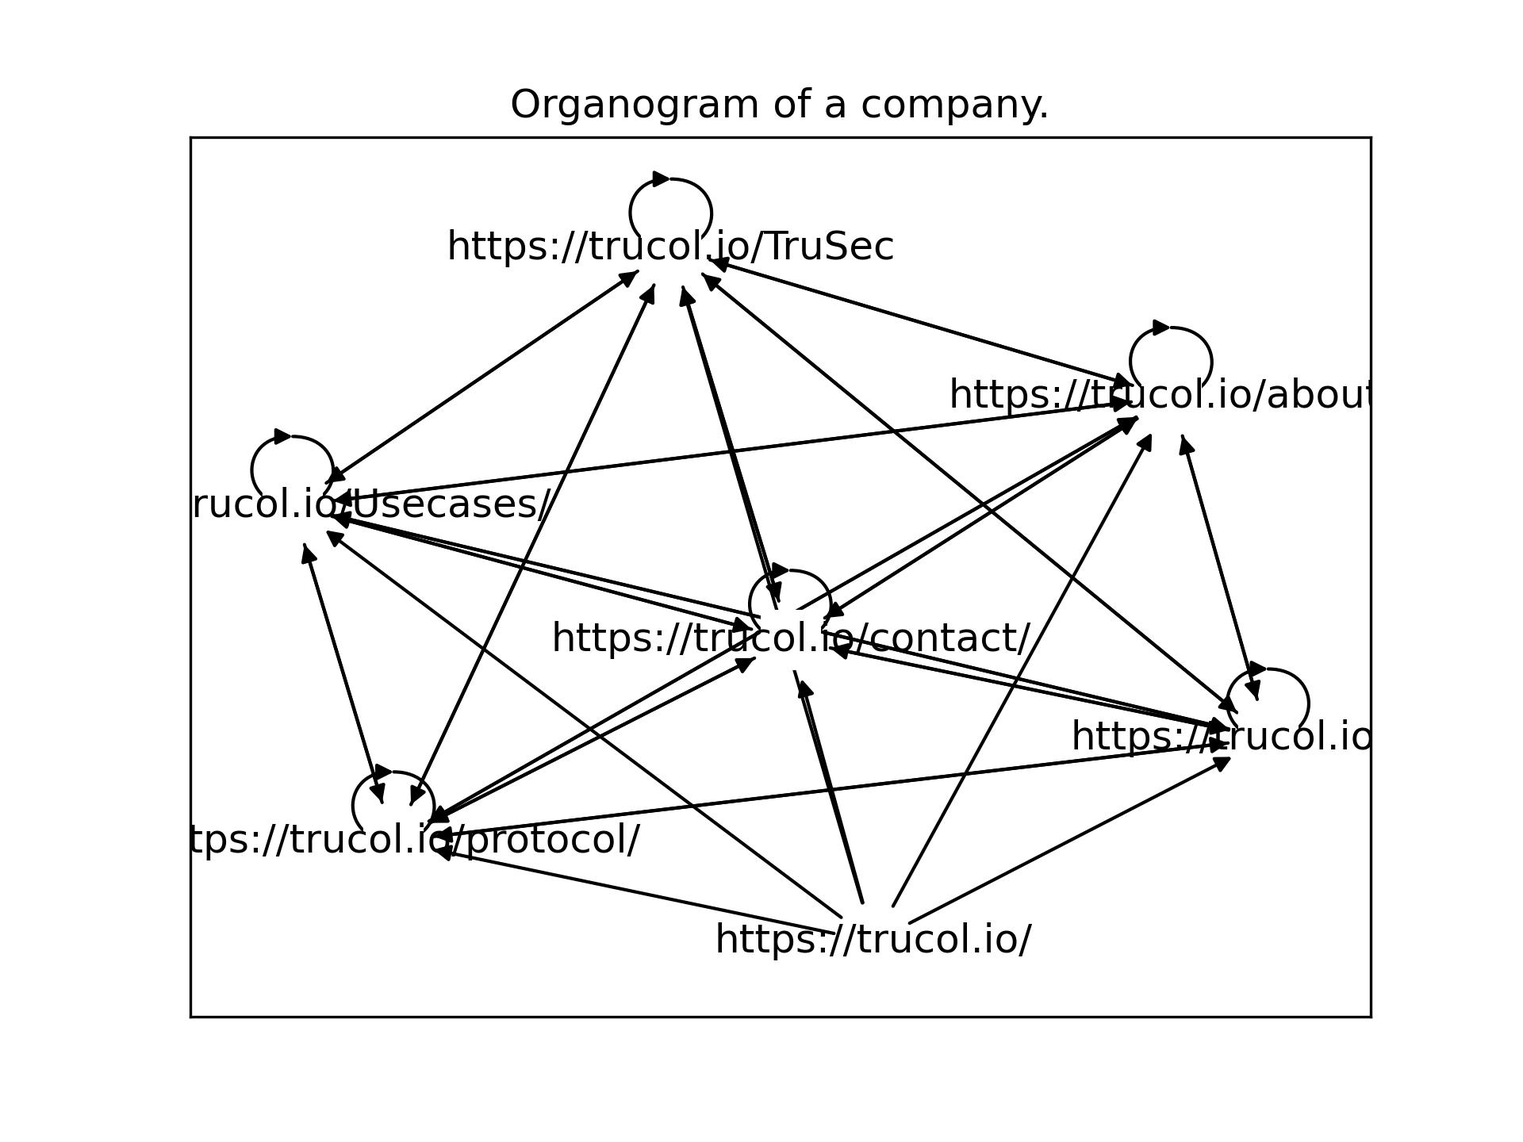
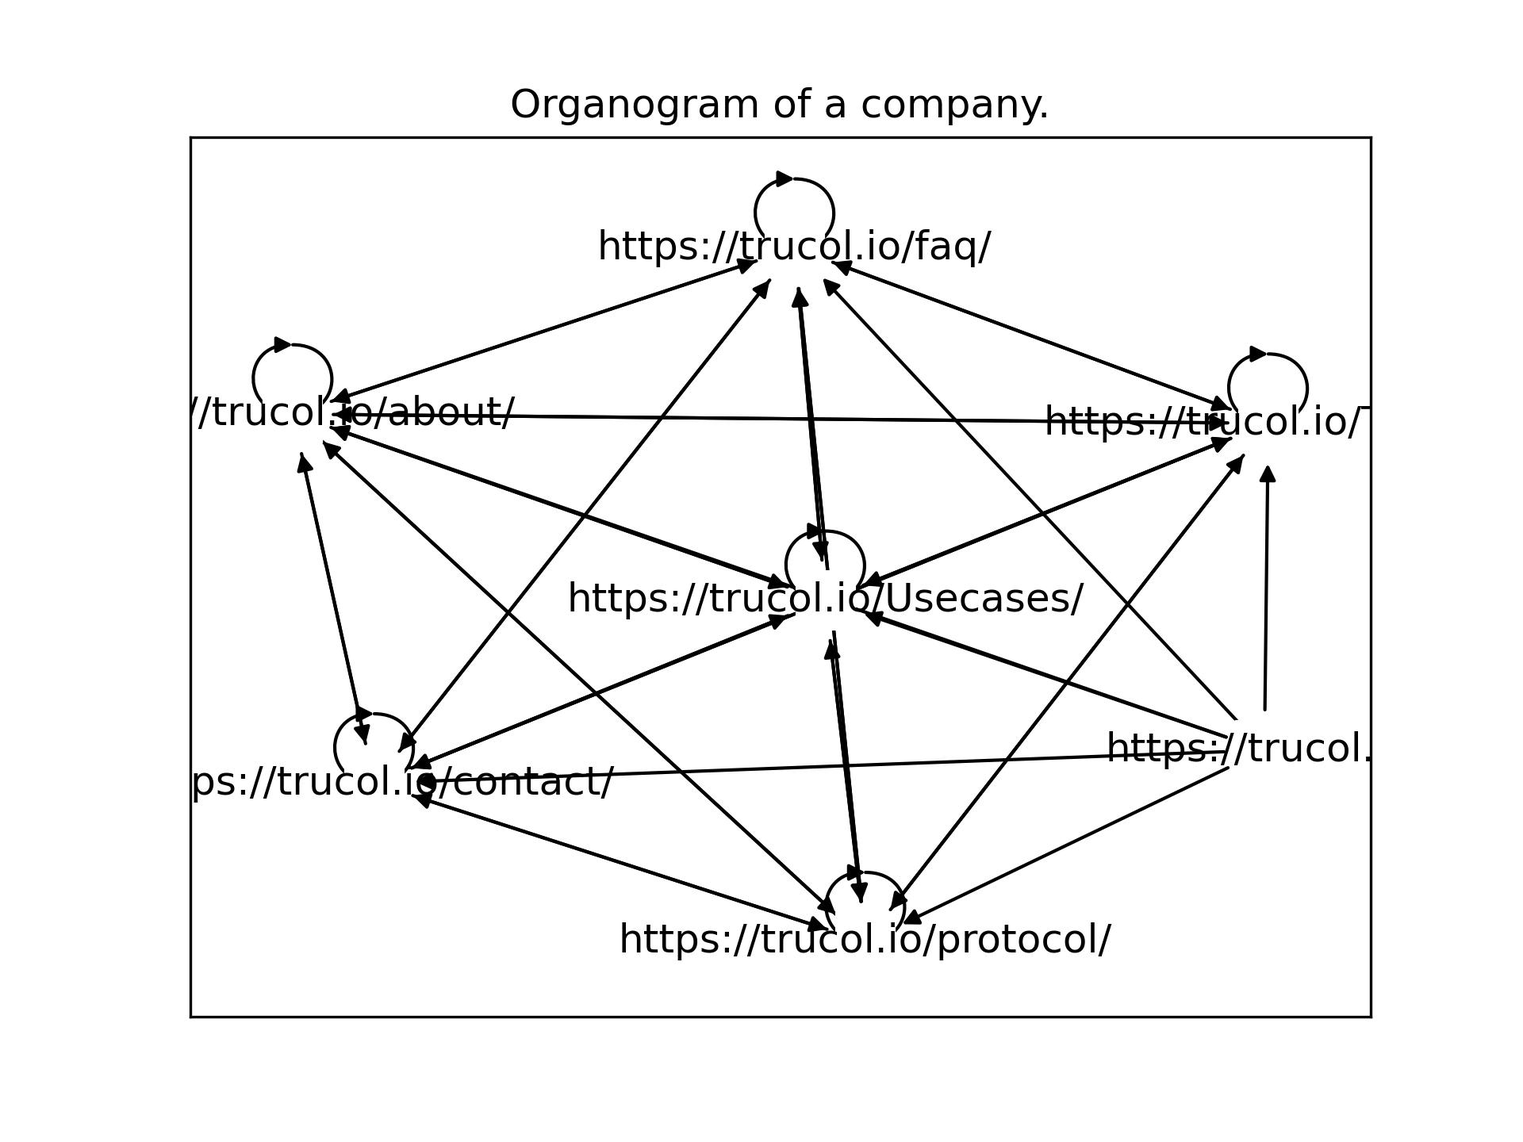
Corrected nested order of page overview.

diff --git a/book/https:__trucol.io_.html b/book/https:__trucol.io_.html
@@ -65,7 +65,7 @@
         </script>
 
         <div id="sidebar" class="sidebar">
-            <ul class="chapter"><li><a href="./https:__trucol.io_.html" class="active"><strong>1.</strong> https:_trucol.io</a></li><li><ul class="section"><li><a href="./https:__trucol.io_protocol_.html"><strong>1.1.</strong> https:_trucol.io_protocol</a></li><li><ul class="section"><li><a href="./https:__trucol.io_Usecases_.html"><strong>1.1.1.</strong> https:_trucol.io_Usecases</a></li><li><ul class="section"><li><a href="./https:__trucol.io_faq_.html"><strong>1.1.1.1.</strong> https:_trucol.io_faq</a></li><li><ul class="section"><li><a href="./https:__trucol.io_TruSec.html"><strong>1.1.1.1.1.</strong> https:__trucol.io_TruSec</a></li><li><ul class="section"><li><a href="./https:__trucol.io_about_.html"><strong>1.1.1.1.1.1.</strong> https:_trucol.io_about</a></li><li><ul class="section"><li><a href="./https:__trucol.io_contact_.html"><strong>1.1.1.1.1.1.1.</strong> https:_trucol.io_contact</a></li></ul></li></ul></li></ul></li></ul></li></ul></li></ul></li></ul>
+            <ul class="chapter"><li><a href="./https:__trucol.io_.html" class="active"><strong>1.</strong> https:_trucol.io</a></li><li><ul class="section"><li><a href="./https:__trucol.io_protocol_.html"><strong>1.1.</strong> https:_trucol.io_protocol</a></li><li><a href="./https:__trucol.io_Usecases_.html"><strong>1.2.</strong> https:_trucol.io_Usecases</a></li><li><a href="./https:__trucol.io_faq_.html"><strong>1.3.</strong> https:_trucol.io_faq</a></li><li><a href="./https:__trucol.io_TruSec.html"><strong>1.4.</strong> https:__trucol.io_TruSec</a></li><li><a href="./https:__trucol.io_about_.html"><strong>1.5.</strong> https:_trucol.io_about</a></li><li><a href="./https:__trucol.io_contact_.html"><strong>1.6.</strong> https:_trucol.io_contact</a></li></ul></li></ul>
         </div>
 
         <div id="page-wrapper" class="page-wrapper">

diff --git a/book/https:__trucol.io_TruSec.html b/book/https:__trucol.io_TruSec.html
@@ -65,7 +65,7 @@
         </script>
 
         <div id="sidebar" class="sidebar">
-            <ul class="chapter"><li><a href="./https:__trucol.io_.html"><strong>1.</strong> https:_trucol.io</a></li><li><ul class="section"><li><a href="./https:__trucol.io_protocol_.html"><strong>1.1.</strong> https:_trucol.io_protocol</a></li><li><ul class="section"><li><a href="./https:__trucol.io_Usecases_.html"><strong>1.1.1.</strong> https:_trucol.io_Usecases</a></li><li><ul class="section"><li><a href="./https:__trucol.io_faq_.html"><strong>1.1.1.1.</strong> https:_trucol.io_faq</a></li><li><ul class="section"><li><a href="./https:__trucol.io_TruSec.html" class="active"><strong>1.1.1.1.1.</strong> https:__trucol.io_TruSec</a></li><li><ul class="section"><li><a href="./https:__trucol.io_about_.html"><strong>1.1.1.1.1.1.</strong> https:_trucol.io_about</a></li><li><ul class="section"><li><a href="./https:__trucol.io_contact_.html"><strong>1.1.1.1.1.1.1.</strong> https:_trucol.io_contact</a></li></ul></li></ul></li></ul></li></ul></li></ul></li></ul></li></ul>
+            <ul class="chapter"><li><a href="./https:__trucol.io_.html"><strong>1.</strong> https:_trucol.io</a></li><li><ul class="section"><li><a href="./https:__trucol.io_protocol_.html"><strong>1.1.</strong> https:_trucol.io_protocol</a></li><li><a href="./https:__trucol.io_Usecases_.html"><strong>1.2.</strong> https:_trucol.io_Usecases</a></li><li><a href="./https:__trucol.io_faq_.html"><strong>1.3.</strong> https:_trucol.io_faq</a></li><li><a href="./https:__trucol.io_TruSec.html" class="active"><strong>1.4.</strong> https:__trucol.io_TruSec</a></li><li><a href="./https:__trucol.io_about_.html"><strong>1.5.</strong> https:_trucol.io_about</a></li><li><a href="./https:__trucol.io_contact_.html"><strong>1.6.</strong> https:_trucol.io_contact</a></li></ul></li></ul>
         </div>
 
         <div id="page-wrapper" class="page-wrapper">

diff --git a/book/https:__trucol.io_Usecases_.html b/book/https:__trucol.io_Usecases_.html
@@ -65,7 +65,7 @@
         </script>
 
         <div id="sidebar" class="sidebar">
-            <ul class="chapter"><li><a href="./https:__trucol.io_.html"><strong>1.</strong> https:_trucol.io</a></li><li><ul class="section"><li><a href="./https:__trucol.io_protocol_.html"><strong>1.1.</strong> https:_trucol.io_protocol</a></li><li><ul class="section"><li><a href="./https:__trucol.io_Usecases_.html" class="active"><strong>1.1.1.</strong> https:_trucol.io_Usecases</a></li><li><ul class="section"><li><a href="./https:__trucol.io_faq_.html"><strong>1.1.1.1.</strong> https:_trucol.io_faq</a></li><li><ul class="section"><li><a href="./https:__trucol.io_TruSec.html"><strong>1.1.1.1.1.</strong> https:__trucol.io_TruSec</a></li><li><ul class="section"><li><a href="./https:__trucol.io_about_.html"><strong>1.1.1.1.1.1.</strong> https:_trucol.io_about</a></li><li><ul class="section"><li><a href="./https:__trucol.io_contact_.html"><strong>1.1.1.1.1.1.1.</strong> https:_trucol.io_contact</a></li></ul></li></ul></li></ul></li></ul></li></ul></li></ul></li></ul>
+            <ul class="chapter"><li><a href="./https:__trucol.io_.html"><strong>1.</strong> https:_trucol.io</a></li><li><ul class="section"><li><a href="./https:__trucol.io_protocol_.html"><strong>1.1.</strong> https:_trucol.io_protocol</a></li><li><a href="./https:__trucol.io_Usecases_.html" class="active"><strong>1.2.</strong> https:_trucol.io_Usecases</a></li><li><a href="./https:__trucol.io_faq_.html"><strong>1.3.</strong> https:_trucol.io_faq</a></li><li><a href="./https:__trucol.io_TruSec.html"><strong>1.4.</strong> https:__trucol.io_TruSec</a></li><li><a href="./https:__trucol.io_about_.html"><strong>1.5.</strong> https:_trucol.io_about</a></li><li><a href="./https:__trucol.io_contact_.html"><strong>1.6.</strong> https:_trucol.io_contact</a></li></ul></li></ul>
         </div>
 
         <div id="page-wrapper" class="page-wrapper">

diff --git a/book/https:__trucol.io_about_.html b/book/https:__trucol.io_about_.html
@@ -65,7 +65,7 @@
         </script>
 
         <div id="sidebar" class="sidebar">
-            <ul class="chapter"><li><a href="./https:__trucol.io_.html"><strong>1.</strong> https:_trucol.io</a></li><li><ul class="section"><li><a href="./https:__trucol.io_protocol_.html"><strong>1.1.</strong> https:_trucol.io_protocol</a></li><li><ul class="section"><li><a href="./https:__trucol.io_Usecases_.html"><strong>1.1.1.</strong> https:_trucol.io_Usecases</a></li><li><ul class="section"><li><a href="./https:__trucol.io_faq_.html"><strong>1.1.1.1.</strong> https:_trucol.io_faq</a></li><li><ul class="section"><li><a href="./https:__trucol.io_TruSec.html"><strong>1.1.1.1.1.</strong> https:__trucol.io_TruSec</a></li><li><ul class="section"><li><a href="./https:__trucol.io_about_.html" class="active"><strong>1.1.1.1.1.1.</strong> https:_trucol.io_about</a></li><li><ul class="section"><li><a href="./https:__trucol.io_contact_.html"><strong>1.1.1.1.1.1.1.</strong> https:_trucol.io_contact</a></li></ul></li></ul></li></ul></li></ul></li></ul></li></ul></li></ul>
+            <ul class="chapter"><li><a href="./https:__trucol.io_.html"><strong>1.</strong> https:_trucol.io</a></li><li><ul class="section"><li><a href="./https:__trucol.io_protocol_.html"><strong>1.1.</strong> https:_trucol.io_protocol</a></li><li><a href="./https:__trucol.io_Usecases_.html"><strong>1.2.</strong> https:_trucol.io_Usecases</a></li><li><a href="./https:__trucol.io_faq_.html"><strong>1.3.</strong> https:_trucol.io_faq</a></li><li><a href="./https:__trucol.io_TruSec.html"><strong>1.4.</strong> https:__trucol.io_TruSec</a></li><li><a href="./https:__trucol.io_about_.html" class="active"><strong>1.5.</strong> https:_trucol.io_about</a></li><li><a href="./https:__trucol.io_contact_.html"><strong>1.6.</strong> https:_trucol.io_contact</a></li></ul></li></ul>
         </div>
 
         <div id="page-wrapper" class="page-wrapper">

diff --git a/book/https:__trucol.io_contact_.html b/book/https:__trucol.io_contact_.html
@@ -65,7 +65,7 @@
         </script>
 
         <div id="sidebar" class="sidebar">
-            <ul class="chapter"><li><a href="./https:__trucol.io_.html"><strong>1.</strong> https:_trucol.io</a></li><li><ul class="section"><li><a href="./https:__trucol.io_protocol_.html"><strong>1.1.</strong> https:_trucol.io_protocol</a></li><li><ul class="section"><li><a href="./https:__trucol.io_Usecases_.html"><strong>1.1.1.</strong> https:_trucol.io_Usecases</a></li><li><ul class="section"><li><a href="./https:__trucol.io_faq_.html"><strong>1.1.1.1.</strong> https:_trucol.io_faq</a></li><li><ul class="section"><li><a href="./https:__trucol.io_TruSec.html"><strong>1.1.1.1.1.</strong> https:__trucol.io_TruSec</a></li><li><ul class="section"><li><a href="./https:__trucol.io_about_.html"><strong>1.1.1.1.1.1.</strong> https:_trucol.io_about</a></li><li><ul class="section"><li><a href="./https:__trucol.io_contact_.html" class="active"><strong>1.1.1.1.1.1.1.</strong> https:_trucol.io_contact</a></li></ul></li></ul></li></ul></li></ul></li></ul></li></ul></li></ul>
+            <ul class="chapter"><li><a href="./https:__trucol.io_.html"><strong>1.</strong> https:_trucol.io</a></li><li><ul class="section"><li><a href="./https:__trucol.io_protocol_.html"><strong>1.1.</strong> https:_trucol.io_protocol</a></li><li><a href="./https:__trucol.io_Usecases_.html"><strong>1.2.</strong> https:_trucol.io_Usecases</a></li><li><a href="./https:__trucol.io_faq_.html"><strong>1.3.</strong> https:_trucol.io_faq</a></li><li><a href="./https:__trucol.io_TruSec.html"><strong>1.4.</strong> https:__trucol.io_TruSec</a></li><li><a href="./https:__trucol.io_about_.html"><strong>1.5.</strong> https:_trucol.io_about</a></li><li><a href="./https:__trucol.io_contact_.html" class="active"><strong>1.6.</strong> https:_trucol.io_contact</a></li></ul></li></ul>
         </div>
 
         <div id="page-wrapper" class="page-wrapper">

diff --git a/book/https:__trucol.io_faq_.html b/book/https:__trucol.io_faq_.html
@@ -65,7 +65,7 @@
         </script>
 
         <div id="sidebar" class="sidebar">
-            <ul class="chapter"><li><a href="./https:__trucol.io_.html"><strong>1.</strong> https:_trucol.io</a></li><li><ul class="section"><li><a href="./https:__trucol.io_protocol_.html"><strong>1.1.</strong> https:_trucol.io_protocol</a></li><li><ul class="section"><li><a href="./https:__trucol.io_Usecases_.html"><strong>1.1.1.</strong> https:_trucol.io_Usecases</a></li><li><ul class="section"><li><a href="./https:__trucol.io_faq_.html" class="active"><strong>1.1.1.1.</strong> https:_trucol.io_faq</a></li><li><ul class="section"><li><a href="./https:__trucol.io_TruSec.html"><strong>1.1.1.1.1.</strong> https:__trucol.io_TruSec</a></li><li><ul class="section"><li><a href="./https:__trucol.io_about_.html"><strong>1.1.1.1.1.1.</strong> https:_trucol.io_about</a></li><li><ul class="section"><li><a href="./https:__trucol.io_contact_.html"><strong>1.1.1.1.1.1.1.</strong> https:_trucol.io_contact</a></li></ul></li></ul></li></ul></li></ul></li></ul></li></ul></li></ul>
+            <ul class="chapter"><li><a href="./https:__trucol.io_.html"><strong>1.</strong> https:_trucol.io</a></li><li><ul class="section"><li><a href="./https:__trucol.io_protocol_.html"><strong>1.1.</strong> https:_trucol.io_protocol</a></li><li><a href="./https:__trucol.io_Usecases_.html"><strong>1.2.</strong> https:_trucol.io_Usecases</a></li><li><a href="./https:__trucol.io_faq_.html" class="active"><strong>1.3.</strong> https:_trucol.io_faq</a></li><li><a href="./https:__trucol.io_TruSec.html"><strong>1.4.</strong> https:__trucol.io_TruSec</a></li><li><a href="./https:__trucol.io_about_.html"><strong>1.5.</strong> https:_trucol.io_about</a></li><li><a href="./https:__trucol.io_contact_.html"><strong>1.6.</strong> https:_trucol.io_contact</a></li></ul></li></ul>
         </div>
 
         <div id="page-wrapper" class="page-wrapper">

diff --git a/book/https:__trucol.io_protocol_.html b/book/https:__trucol.io_protocol_.html
@@ -65,7 +65,7 @@
         </script>
 
         <div id="sidebar" class="sidebar">
-            <ul class="chapter"><li><a href="./https:__trucol.io_.html"><strong>1.</strong> https:_trucol.io</a></li><li><ul class="section"><li><a href="./https:__trucol.io_protocol_.html" class="active"><strong>1.1.</strong> https:_trucol.io_protocol</a></li><li><ul class="section"><li><a href="./https:__trucol.io_Usecases_.html"><strong>1.1.1.</strong> https:_trucol.io_Usecases</a></li><li><ul class="section"><li><a href="./https:__trucol.io_faq_.html"><strong>1.1.1.1.</strong> https:_trucol.io_faq</a></li><li><ul class="section"><li><a href="./https:__trucol.io_TruSec.html"><strong>1.1.1.1.1.</strong> https:__trucol.io_TruSec</a></li><li><ul class="section"><li><a href="./https:__trucol.io_about_.html"><strong>1.1.1.1.1.1.</strong> https:_trucol.io_about</a></li><li><ul class="section"><li><a href="./https:__trucol.io_contact_.html"><strong>1.1.1.1.1.1.1.</strong> https:_trucol.io_contact</a></li></ul></li></ul></li></ul></li></ul></li></ul></li></ul></li></ul>
+            <ul class="chapter"><li><a href="./https:__trucol.io_.html"><strong>1.</strong> https:_trucol.io</a></li><li><ul class="section"><li><a href="./https:__trucol.io_protocol_.html" class="active"><strong>1.1.</strong> https:_trucol.io_protocol</a></li><li><a href="./https:__trucol.io_Usecases_.html"><strong>1.2.</strong> https:_trucol.io_Usecases</a></li><li><a href="./https:__trucol.io_faq_.html"><strong>1.3.</strong> https:_trucol.io_faq</a></li><li><a href="./https:__trucol.io_TruSec.html"><strong>1.4.</strong> https:__trucol.io_TruSec</a></li><li><a href="./https:__trucol.io_about_.html"><strong>1.5.</strong> https:_trucol.io_about</a></li><li><a href="./https:__trucol.io_contact_.html"><strong>1.6.</strong> https:_trucol.io_contact</a></li></ul></li></ul>
         </div>
 
         <div id="page-wrapper" class="page-wrapper">

diff --git a/book/index.html b/book/index.html
@@ -64,7 +64,7 @@
         </script>
 
         <div id="sidebar" class="sidebar">
-            <ul class="chapter"><li><a href="./https:__trucol.io_.html" class="active"><strong>1.</strong> https:_trucol.io</a></li><li><ul class="section"><li><a href="./https:__trucol.io_protocol_.html"><strong>1.1.</strong> https:_trucol.io_protocol</a></li><li><ul class="section"><li><a href="./https:__trucol.io_Usecases_.html"><strong>1.1.1.</strong> https:_trucol.io_Usecases</a></li><li><ul class="section"><li><a href="./https:__trucol.io_faq_.html"><strong>1.1.1.1.</strong> https:_trucol.io_faq</a></li><li><ul class="section"><li><a href="./https:__trucol.io_TruSec.html"><strong>1.1.1.1.1.</strong> https:__trucol.io_TruSec</a></li><li><ul class="section"><li><a href="./https:__trucol.io_about_.html"><strong>1.1.1.1.1.1.</strong> https:_trucol.io_about</a></li><li><ul class="section"><li><a href="./https:__trucol.io_contact_.html"><strong>1.1.1.1.1.1.1.</strong> https:_trucol.io_contact</a></li></ul></li></ul></li></ul></li></ul></li></ul></li></ul></li></ul>
+            <ul class="chapter"><li><a href="./https:__trucol.io_.html" class="active"><strong>1.</strong> https:_trucol.io</a></li><li><ul class="section"><li><a href="./https:__trucol.io_protocol_.html"><strong>1.1.</strong> https:_trucol.io_protocol</a></li><li><a href="./https:__trucol.io_Usecases_.html"><strong>1.2.</strong> https:_trucol.io_Usecases</a></li><li><a href="./https:__trucol.io_faq_.html"><strong>1.3.</strong> https:_trucol.io_faq</a></li><li><a href="./https:__trucol.io_TruSec.html"><strong>1.4.</strong> https:__trucol.io_TruSec</a></li><li><a href="./https:__trucol.io_about_.html"><strong>1.5.</strong> https:_trucol.io_about</a></li><li><a href="./https:__trucol.io_contact_.html"><strong>1.6.</strong> https:_trucol.io_contact</a></li></ul></li></ul>
         </div>
 
         <div id="page-wrapper" class="page-wrapper">

diff --git a/book/print.html b/book/print.html
@@ -65,7 +65,7 @@
         </script>
 
         <div id="sidebar" class="sidebar">
-            <ul class="chapter"><li><a href="./https:__trucol.io_.html"><strong>1.</strong> https:_trucol.io</a></li><li><ul class="section"><li><a href="./https:__trucol.io_protocol_.html"><strong>1.1.</strong> https:_trucol.io_protocol</a></li><li><ul class="section"><li><a href="./https:__trucol.io_Usecases_.html"><strong>1.1.1.</strong> https:_trucol.io_Usecases</a></li><li><ul class="section"><li><a href="./https:__trucol.io_faq_.html"><strong>1.1.1.1.</strong> https:_trucol.io_faq</a></li><li><ul class="section"><li><a href="./https:__trucol.io_TruSec.html"><strong>1.1.1.1.1.</strong> https:__trucol.io_TruSec</a></li><li><ul class="section"><li><a href="./https:__trucol.io_about_.html"><strong>1.1.1.1.1.1.</strong> https:_trucol.io_about</a></li><li><ul class="section"><li><a href="./https:__trucol.io_contact_.html"><strong>1.1.1.1.1.1.1.</strong> https:_trucol.io_contact</a></li></ul></li></ul></li></ul></li></ul></li></ul></li></ul></li></ul>
+            <ul class="chapter"><li><a href="./https:__trucol.io_.html"><strong>1.</strong> https:_trucol.io</a></li><li><ul class="section"><li><a href="./https:__trucol.io_protocol_.html"><strong>1.1.</strong> https:_trucol.io_protocol</a></li><li><a href="./https:__trucol.io_Usecases_.html"><strong>1.2.</strong> https:_trucol.io_Usecases</a></li><li><a href="./https:__trucol.io_faq_.html"><strong>1.3.</strong> https:_trucol.io_faq</a></li><li><a href="./https:__trucol.io_TruSec.html"><strong>1.4.</strong> https:__trucol.io_TruSec</a></li><li><a href="./https:__trucol.io_about_.html"><strong>1.5.</strong> https:_trucol.io_about</a></li><li><a href="./https:__trucol.io_contact_.html"><strong>1.6.</strong> https:_trucol.io_contact</a></li></ul></li></ul>
         </div>
 
         <div id="page-wrapper" class="page-wrapper">

diff --git a/src/pythontemplate/frontend/visualize_summarised_website.py b/src/pythontemplate/frontend/visualize_summarised_website.py
@@ -1,13 +1,18 @@
 import os
-
+from typing import List
 
 def create_mdbook(graph, root, output_dir):
     if not os.path.exists(output_dir):
         os.makedirs(output_dir)
 
+    tree:List[List] = []
+    
+    tree = create_bft(graph=graph, root_node=list(graph.nodes)[0], tree =tree)
+    
     # Create SUMMARY.md file
     summary_content = ["# Summary\n"]
-    summary_content += generate_summary(graph, root, 0)
+    summary_content += generate_summary(graph,tree, root, 0)
+    
 
     with open(os.path.join(output_dir, "SUMMARY.md"), "w") as f:
         f.writelines(summary_content)
@@ -15,7 +20,39 @@ def create_mdbook(graph, root, output_dir):
     # Create markdown files for each node
     create_markdown_files(graph, root, output_dir)
 
-def generate_summary(graph, node, level, visited=None):
+def create_bft(graph,root_node, tree:List[List]):
+    """Generates a breadth first tree of the graph starting at the root node.
+   then adds all its neighbours, then those neighbours etc untill all nodes are
+   included in a levelled list."""
+    
+    if tree == []:
+      if root_node is None:
+         raise ValueError("Cannot add None as root to tree.")
+      tree=[[root_node]]
+    
+    # Get the last row of the tree.
+    next_level:List=[]
+    for node in tree[-1]:
+    
+        for neighbour in graph.neighbors(node):
+            if not tree_contains_node(tree=tree, sought_node=neighbour):
+                next_level.append(neighbour)
+    if len(next_level) > 0:
+        tree.append(next_level)
+        for node in tree[-1]:
+            tree = create_bft(graph = graph, root_node=root_node, tree=tree)
+    return tree
+
+def tree_contains_node(tree:List[List], sought_node)-> bool:
+    for nodes_of_level in tree:
+      for node in nodes_of_level:
+         if sought_node == node:
+            return True
+    return False
+   
+
+
+def generate_summary(graph, tree, node, level):
     """
     This function generates a summary of a graph structure in Markdown format.
 
@@ -28,46 +65,26 @@ def generate_summary(graph, node, level, visited=None):
     Returns:
         A string containing the Markdown summary for the current node and its descendants.
     """
+    content=""
+    for indentation_level, nodes_of_level in enumerate(tree):
+       if indentation_level<len(tree)-1:
+            for node in nodes_of_level:
+                content += create_summary_content_for_node(level=indentation_level, node=node)
+                if indentation_level <= len(tree):
+                    children=tree[indentation_level+1]
+                    for child in children:
+                        if [node,child] in graph.edges:
+                            # TODO: include edge weight.
+                            content += create_summary_content_for_node(level=indentation_level+1, node=child)
+            
+    return content
 
+def create_summary_content_for_node(*, level:int, node) -> str:
     indent = "    " * level  # Create indentation string based on level
     content = (
         f'{indent}* [{node.replace("/", "_")}](./{node.replace("/", "_")}.md)\n'
     )
-
-    if visited is None:
-        visited = []  # Initialize visited list if not provided
-
-    if node in visited:
-        return ""  # Skip node if already visited
-
-    visited.append(node)  # Add current node to visited list
-
-    for child in graph.successors(node):
-        """
-        Iterate through the successor nodes (children) of the current node.
-        """
-        content += "".join(generate_summary(graph, child, level + 1, visited))
-
     return content
-
-
-# def create_markdown_files(graph, node, output_dir):
-    
-#     file_path = os.path.join(output_dir, f'{node.replace("/","_")}.md')
-#     print(f"file_path={file_path}")
-#     with open(file_path, "w") as f:
-#         f.write(f'# {node.replace("/","_")}\n')
-#         #
-#         if "summary" in graph.nodes[node]:
-#             f.write(
-#                 graph.nodes[node].get(
-#                     "text_content", graph.nodes[node]["summary"]
-#                 )
-#             )
-#         else:
-#             f.write(graph.nodes[node].get("text_content", "No content"))
-#     for child in graph.successors(node):
-#         create_markdown_files(graph, child, output_dir)
 
 
 def create_markdown_files(graph, node, output_dir, visited=None):

diff --git a/src/pythontemplate/summarise_json.py b/src/pythontemplate/summarise_json.py
@@ -30,18 +30,12 @@ def inject_summarisation_into_website_graph(
     data, website_graph, max_nr_of_queries
 ):
     val = data["data"]["Get"]["Nodes"]
-    print("val=")
-    pprint(val)
     for i, node in enumerate(website_graph.nodes):
         
         if i < max_nr_of_queries:
             verify_summary_structure(single_summary=val[i])
             original_main_text:str = get_original_text_from_summary_response(single_summary=val[i])
             weaviate_summary:str = get_summary_response(single_summary=val[i])
-            print(f'node={node}')
-            print("graph node=")
-            pprint(website_graph.nodes[node])
-            input("continue?")
             summary: str = val[i]["_additional"]["summary"][0]["result"]
             website_graph.nodes[node]["summary"] = summary
 

diff --git a/src/pythontemplate/load_json_into_weaviate/import_local_json.py b/src/pythontemplate/load_json_into_weaviate/import_local_json.py
@@ -33,7 +33,6 @@ def load_local_json_data_into_weaviate(
 
         # Batch import all Questions
         for i, node in enumerate(data["nodes"]):
-            input(f"data elem ={node}")
             if i < 3:
                 # TODO: verify the data element is not already in weaviate.
                 try:
